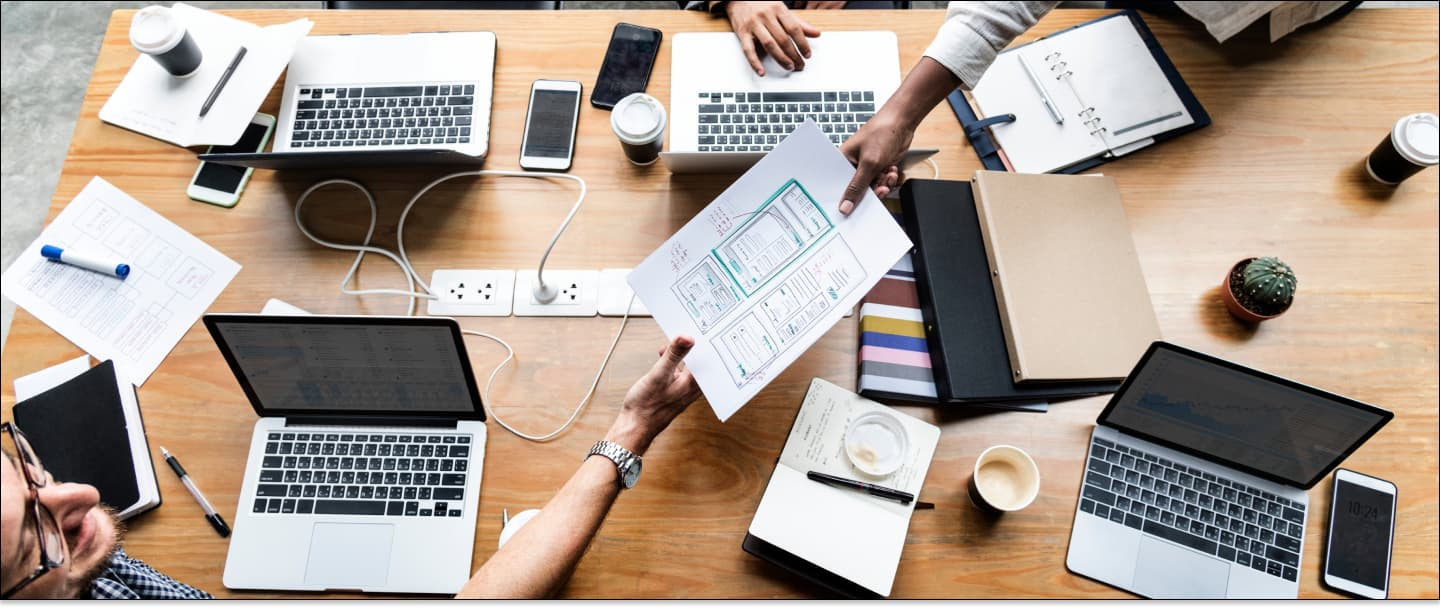
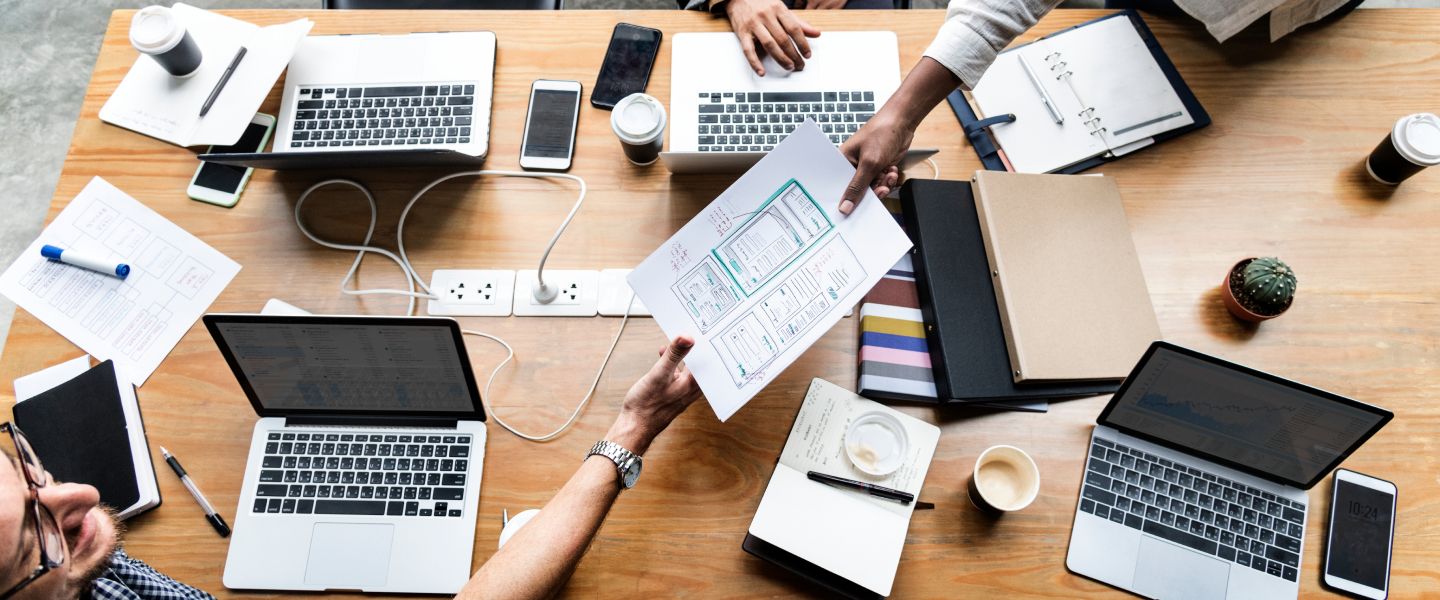
hero-retina

diff --git a/css/styles.css b/css/styles.css
@@ -60,13 +60,13 @@ img {
 }
 
 
-@media screen and (min-width: 768px) {
+@media only screen and (min-width: 768px) {
     .container{
         max-width: 768px;
     }
 }
 
-@media screen and (min-width: 1158px) {
+@media only screen and (min-width: 1158px) {
     .container {
         max-width: 1158px;
         padding-left: 15px;
@@ -172,7 +172,7 @@ img {
     border: none;
 }
 
-@media screen and (min-width: 768px) {
+@media only screen and (min-width: 768px) {
     .menu{
         display: flex;
         gap: 40px;
@@ -251,7 +251,7 @@ img {
         }
 }
 
-@media screen and (min-width: 1158px) {
+@media only screen and (min-width: 1158px) {
     .logo{
         margin-right: 76px;  
     }
@@ -274,7 +274,7 @@ img {
         url("../images/hero-image-mobile.jpg");
     background-repeat: no-repeat;
     background-position: center center;
-    background-size: cover;
+    background-size: cover cover;
 }
 
 .hero-container {
@@ -321,13 +321,18 @@ img {
     background-color: #404BBF;
 }
 
-@media screen and (min-width: 768px) {
+@media only screen and (min-resolution: 192dpi) and (max-width: 767px) {
+    .hero {
+        background-image: linear-gradient(to bottom, rgba(46, 47, 66, 0.7), rgba(46, 47, 66, 0.7)), url('../images/hero-image-mobile@2x.jpg');
+    }
+}
+
+@media only screen and (min-width: 768px) {
     .hero{
         max-width: 768px;
         background-image: linear-gradient(to bottom, rgba(46, 47, 66, 0.7), rgba(46, 47, 66, 0.7)),
                 url("../images/hero-image.jpg");
     }
-
     .main-title {
         max-width: 496px;
         font-size: 56px;
@@ -338,15 +343,21 @@ img {
     }    
 }
 
-@media screen and (min-width: 1158px) {
+
+@media only screen and (min-width: 1158px) {
 .hero {
-        max-width: 1158px;
+        max-width: 1440px;
     }
     .hero-container {
         padding: 188px 0;
     }
 }
+@media only screen and (min-resolution: 192dpi) and (min-width: 1158px) {
+    .hero {
+        background-image: linear-gradient(to bottom, rgba(46, 47, 66, 0.7), rgba(46, 47, 66, 0.7)), url('../images/hero-image@2x.jpg');
+    }
+}
 
-@media screen and (min-width: 768px) {}
+@media only screen and (min-width: 768px) {}
 
-@media screen and (min-width: 1158px) {}
+@media only screen and (min-width: 1158px) {}
